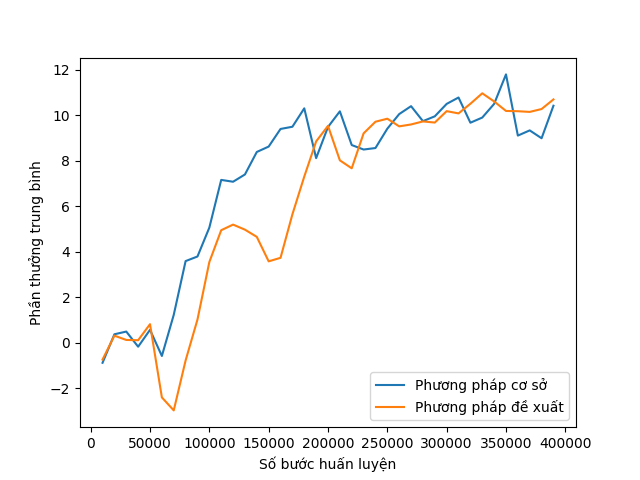
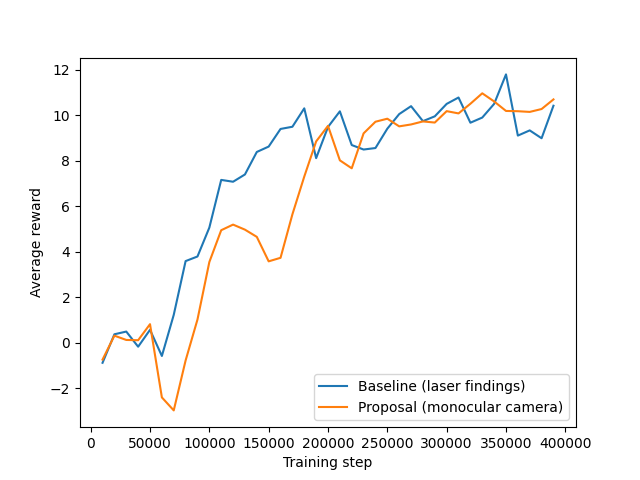
update figures

diff --git a/utils/draw_comp.py b/utils/draw_comp.py
@@ -8,9 +8,10 @@ def main():
     save_path = './figures/comp_imgs/'
     Path(save_path).mkdir(parents=True, exist_ok=True)
 
-    env_id = 1
+    env_id = 2
     compare_items = ['bl-env', 'vis_obs-env']
-    compare_items_name = ['Phương pháp cơ sở', 'Phương pháp đề xuất']
+    compare_items_name = ['Baseline (laser findings)', 'Proposal (monocular camera)']
+    #compare_items_name = ['Phương pháp cơ sở', 'Phương pháp đề xuất']
     figure_name = 'avg_reward_his'
 
     for idx, item in enumerate(compare_items):
@@ -26,8 +27,10 @@ def main():
         train_time_step = [i*1. for i in range(10000, 10000*len(results) + 1, 10000)]
         plt.plot(train_time_step, results, label=compare_items_name[idx])
 
-    plt.ylabel('Phần thưởng trung bình')
-    plt.xlabel('Số bước huấn luyện')
+    #plt.ylabel('Phần thưởng trung bình')
+    #plt.xlabel('Số bước huấn luyện')
+    plt.ylabel('Average reward')
+    plt.xlabel('Training step')
     plt.legend(loc='lower right')
     plt.savefig(save_path + 'comp_avg_reward_his_' +str(env_id) + '.png')
     plt.clf()
